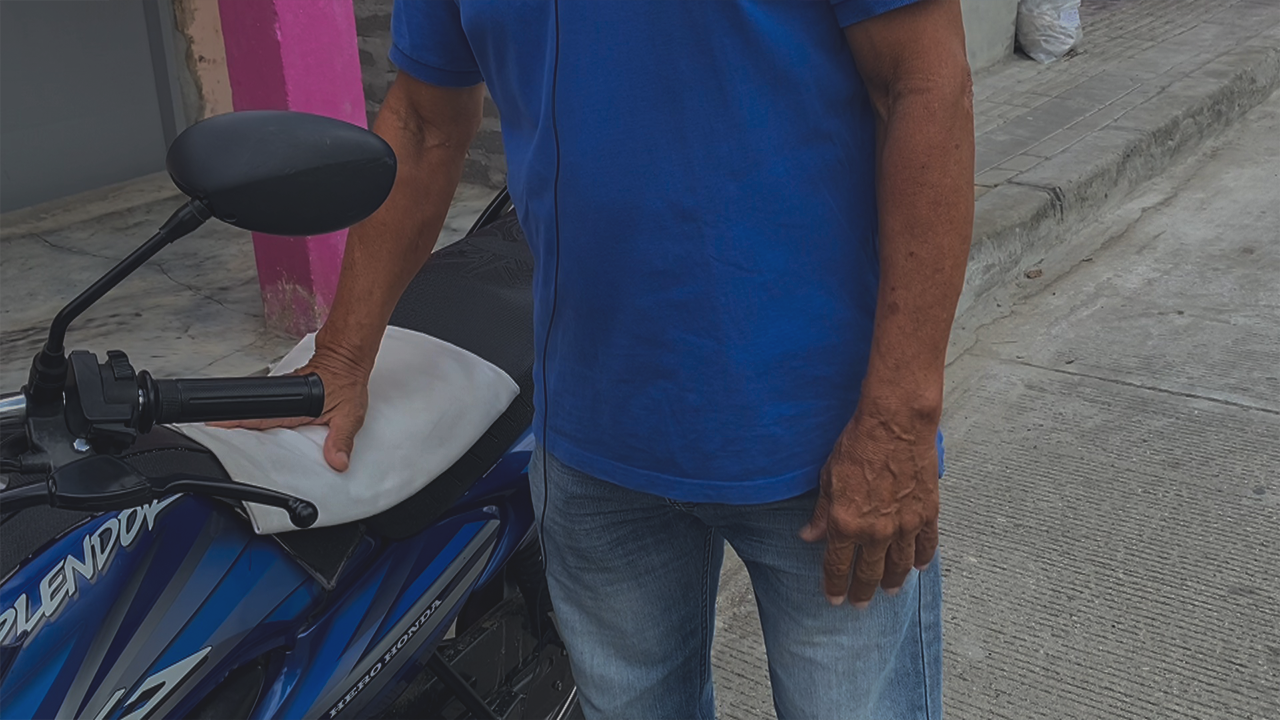
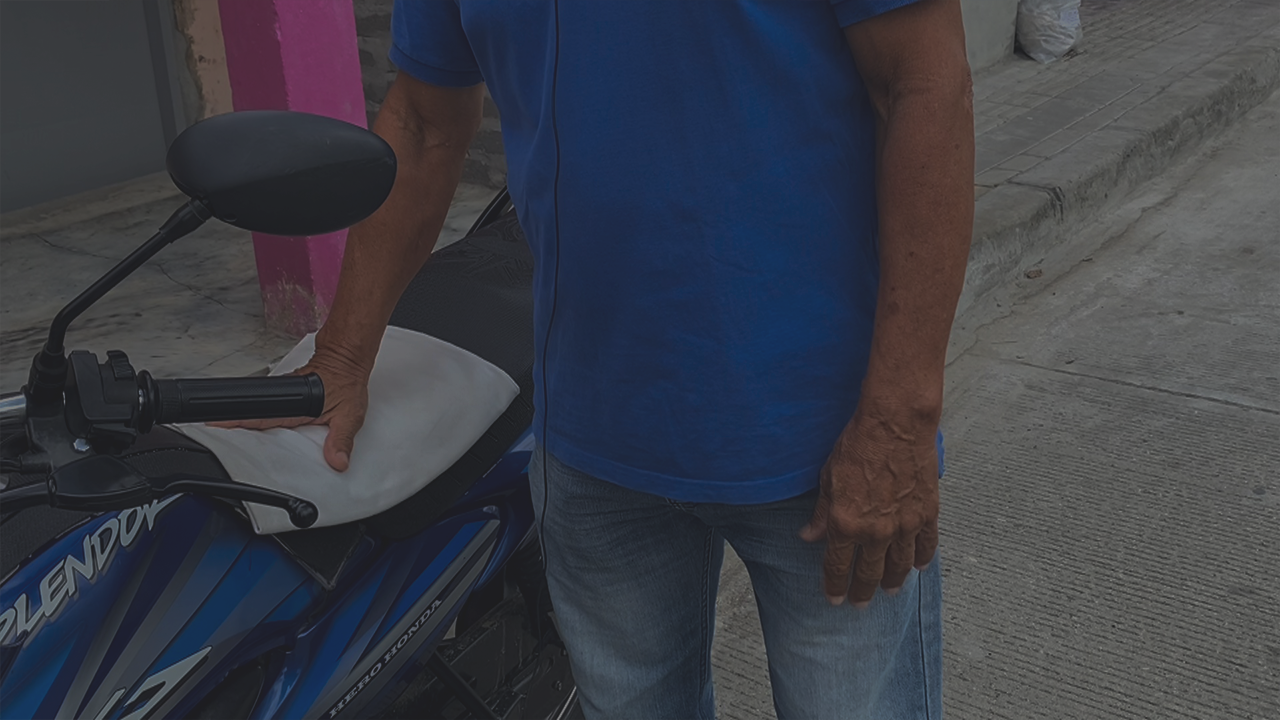
big majors with section 3, adding section 4

diff --git a/index.html b/index.html
@@ -80,7 +80,7 @@
 
                 <div class="section2">
                     <div class="section2__video-container">
-                        <i id="playButton" class="play"></i>
+                        <img src="http://especiales.larazon.co/wp-content/uploads/2019/06/pngocean.com-id-wolpl.png" id="playButton" class="play">
                         <p class="seeTesti">Ver testimonio</p>
                     </div>
                     <div class="section2__img-container">
@@ -95,6 +95,9 @@
             <section class="section section3-container">
 
                 <div class="section3">
+                    <div class="triangle">
+
+                    </div>
 
                     <div class="section1__text section3__text">
                         <p class="section1__p section3__p">
@@ -105,6 +108,24 @@
                         </p>
                         <p class="section1__p section3__p">
                             Algunos mototaxis como Bedoya, afirman que cumplen con todas las normativas decretadas por la alcaldía, sin embargo, muchas de estas se ven frecuentemente violadas en casos muy reiterados, como por ejemplo, según Juan Carlos Ibarra quien es oficial de tránsito en la ciudad de Montería, alegó que se encuentra en vigencia el decreto 0265 de 2020 el cual regula la circulación de mototaxis en varios sitios de la ciudad, entre esos el barrio centro, en donde no pueden transitar en días de semana mototaxis con parrilleros. Ibarra aclara que: “En el barrio centro, en la ciudad de Montería, en la parte comercial las motocicletas no pueden transitar con parrillero hombre o mujer, y si van a transitar solamente se acepta el motociclista, o sea la persona que vaya conduciendo, claro que con su casco reglamentario que exige el código nacional de tránsito”; no obstante, es en estos días donde más se frecuentan los parrilleros en el centro de la ciudad. Para Galindo Díaz, secretario de la junta directiva del gremio de mototaxis, esta situación de violación a estos decretos es entendible debido a la necesidad en donde muchos días se necesita salir porque no cuentan otra forma de conseguir dinero para la alimentación diaria, sin importar si es día sin parrillero, es por ello que, a pesar de los esfuerzos del gobierno local para poder disminuir la afectación de esta práctica en la ciudad de Montería, tales como el Pico y placa, día sin moto, día sin parrillero, regulación y control del fenómeno, muchos mototaxistas siguen incumpliendo las normas e ignorando las leyes a causa de la escasez de sustento.
+                        </p>
+                            
+                    </div>
+
+                </div>
+
+            </section>
+
+            <section class="section section4-container">
+
+                <div class="section4">
+
+                    <div class="section1__text section4__text">
+                        <p class="section1__p section4__p">
+                            Los mismos mototaxis reiteran en que el apoyo a los ciudadanos para conseguir nuevos empleos y no recaer en el mototaxismo ha sido escaso, muchos cuentan que en el anterior gobierno de Marcos Daniel se brindaron ayudas para crear microempresas, lo cual ayudaba a que muchos ciudadanos pudieran constatar un negocio legal, por el contrario, con en el actual gobierno del alcalde Carlos Ordosgoitia (al cual se le sigue atribuyendo la pandemia mundial) expresan que no se les está brindando oportunidades de laborar por lo que sin más deben optar por este oficio informal.
+                        </p>
+                        <p class="section1__p section4__p">
+                            Algunos usuarios de mototoxi aprueban el hecho de que este medio de transporte sin duda alguna se les hace muy práctico por lo económico y rápido que puede llegar a ser, pero recalcan algunos puntos negativos que puede tener el transporte, por ejemplo, una chica llamada Valentina Paternina la cual hace uso frecuente de este medio de transporte público para desplazarse a su universidad, comentaba que en varias ocasiones cuando cancelaba una carrera le cobraban tarifas excesivas para lo que normalmente cuesta una carrera dentro del casco urbano de la ciudad, donde la tarifa más alta es de 6 mil pesos; así como también aseguran ella y otras mujeres que en situaciones muy repetitivas sufren de acoso por parte de estos.
                         </p>
                             
                     </div>

diff --git a/css/styles.css b/css/styles.css
@@ -3,7 +3,6 @@ body {
   font-size: 16px;
   background-image: url("../../src/img/FONDO DEFINITIVO.png");
   background-attachment: fixed;
-  z-index: 10;
 }
 
 h2 {
@@ -154,15 +153,15 @@ p {
   width: 20%;
   height: 100%;
 }
-.section2__video-container i {
-  content: url("../../src/icon/play.png");
+.section2__video-container img {
   opacity: 1;
   width: 80px;
 }
-.section2__video-container i:hover {
+.section2__video-container img:hover {
   cursor: pointer;
 }
 .section2__video-container p {
+  color: white;
   opacity: 1;
   margin-top: 20px;
   font-size: 1.5em;
@@ -191,8 +190,35 @@ p {
 .section3 {
   height: 100%;
   border-top: 3px solid var(--yellow);
+  border-bottom: 3px solid var(--yellow);
+  background-image: url("../../src/img/Fondo 2.png");
+  background-color: #00000050;
+  background-repeat: no-repeat;
+  background-size: cover;
+  background-attachment: fixed;
+  display: flex;
+  flex-direction: column;
+  justify-content: center;
+  align-items: center;
 }
 .section3__text {
+  display: flex;
+  flex-direction: column;
+  justify-content: center;
+  align-items: center;
+  margin: 0 auto;
+  width: 70%;
+}
+
+.triangle {
+  width: 40px;
+  content: url("../../src/icon/triangle.png");
+}
+
+.section4 {
+  height: 100%;
+}
+.section4__text {
   display: flex;
   flex-direction: column;
   justify-content: center;

diff --git a/css/blocks/section3.scss b/css/blocks/section3.scss
@@ -1,6 +1,17 @@
 .section3{
     height: 100%;
     border-top: 3px solid var(--yellow);
+    border-bottom: 3px solid var(--yellow);
+    background-image: url("../../src/img/Fondo\ 2.png");
+    background-color: #00000050;
+    background-repeat: no-repeat;
+    background-size: cover;
+    background-attachment: fixed;
+
+    display: flex;
+    flex-direction: column;
+    justify-content: center;
+    align-items: center;
 
     &__text{
         display: flex;
@@ -10,4 +21,9 @@
         margin: 0 auto;
         width: 70%;
     }
+}
+
+.triangle{
+    width: 40px;
+    content: url('../../src/icon/triangle.png');
 }

diff --git a/css/blocks/section2.scss b/css/blocks/section2.scss
@@ -14,8 +14,7 @@
         justify-content: center;
         width: 20%;
         height: 100%;
-        i{
-            content: url("../../src/icon/play.png");
+        img{
             opacity: 1;
             width: 80px;
             &:hover{
@@ -23,6 +22,7 @@
             }
         }
         p{
+            color: white;
             opacity: 1;
             margin-top: 20px;
             font-size: 1.5em;

diff --git a/css/blocks/section4.scss b/css/blocks/section4.scss
@@ -1,0 +1,12 @@
+.section4{
+    height: 100%;
+    
+    &__text{
+        display: flex;
+        flex-direction: column;
+        justify-content: center;
+        align-items: center;
+        margin: 0 auto;
+        width: 70%;
+    }
+}

diff --git a/css/base.scss b/css/base.scss
@@ -2,7 +2,6 @@ body{
     font-size: 16px;
     background-image: url("../../src/img/FONDO\ DEFINITIVO.png");
     background-attachment: fixed;
-    z-index: 10;
 }
 
 h2{

diff --git a/css/styles.scss b/css/styles.scss
@@ -11,6 +11,7 @@
 @import 'blocks/section1.scss';
 @import 'blocks/section2.scss';
 @import 'blocks/section3.scss';
+@import 'blocks/section4.scss';
 
 // Modal
 
